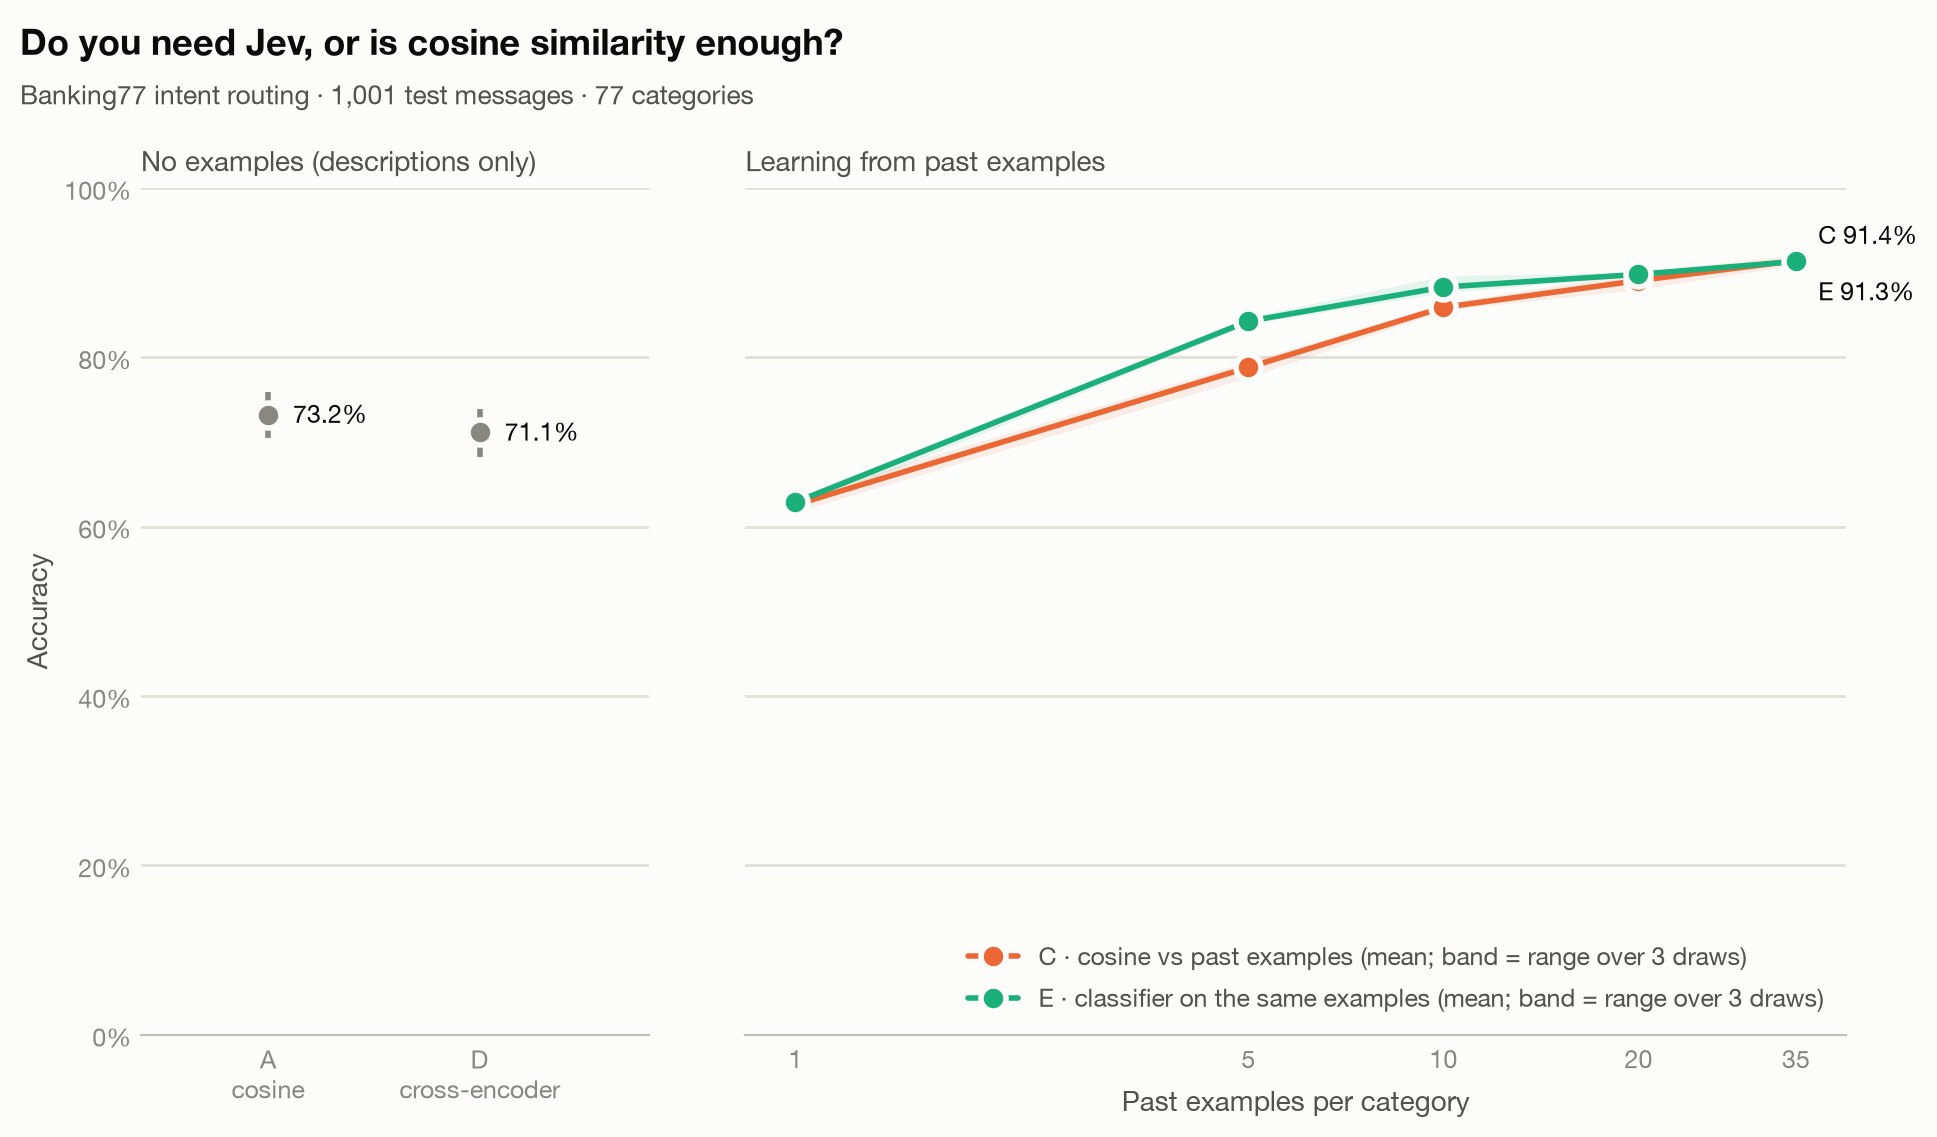
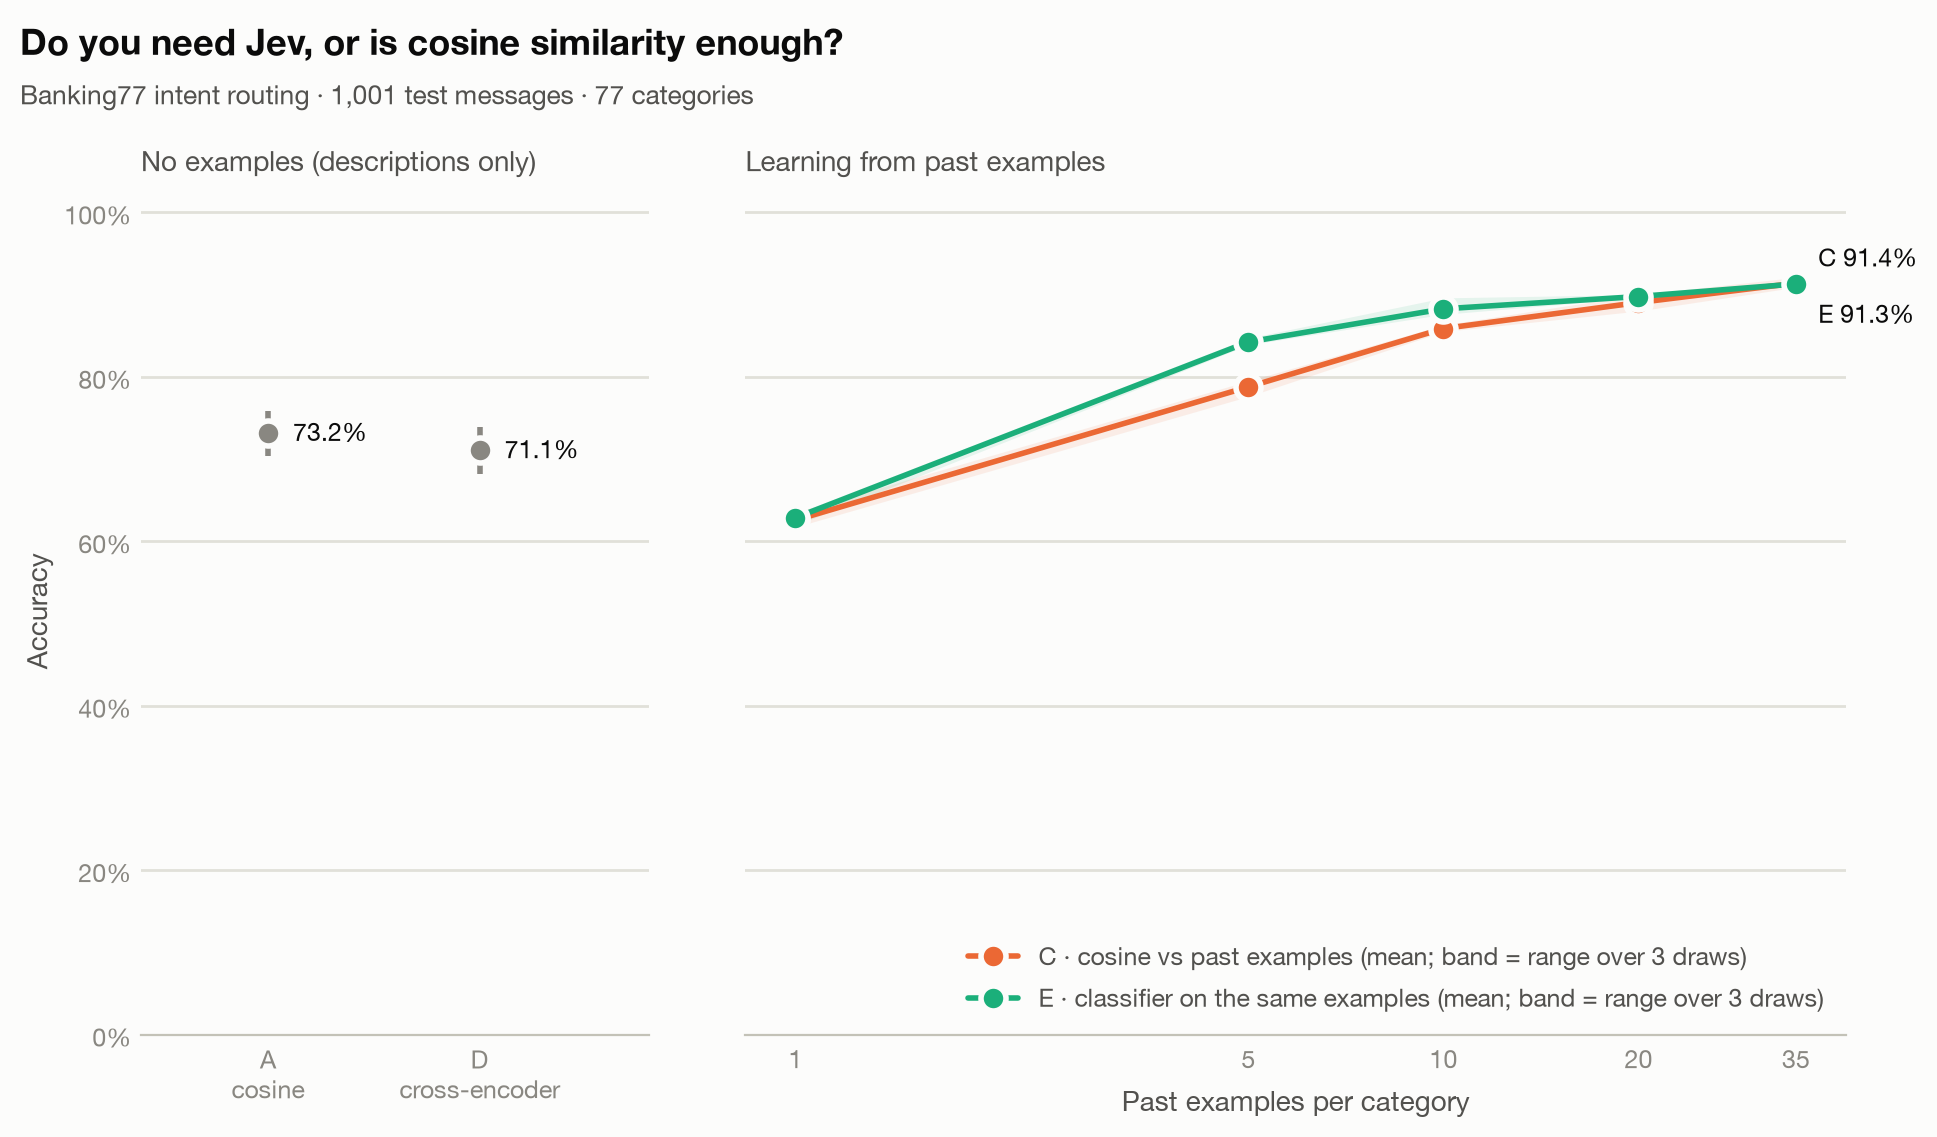
docs: add Jev results for the tricky probe
After the daily canary matched (422/422 tokens), Jev answered all 105
tricky messages from the free route: 100.0%, against 79.0% for the
cross-encoder, 64.8% for cosine vs descriptions, and 60.6% / 64.1% for
cosine voting / the trained classifier with 35 examples per category.
All reports are regenerated with the chart fix.

diff --git a/results/probe_tricky.v1/REPORT.md b/results/probe_tricky.v1/REPORT.md
@@ -1,16 +1,17 @@
 # Results: Jev vs cosine similarity on Banking77
 
-_Jev (method B) has not been run yet; only the cosine methods are shown._
+**With no examples, Jev leads cosine by 35.2 points; cosine vs past examples does not reach Jev within the tested range.**
 
-A classifier trained on the same past examples (method E) reaches **64.1%** with 35 per category.
+A classifier trained on the same past examples (method E) does not reach Jev within the tested range, and scores 64.1% with 35 per category.
 
-A local cross-encoder that reads each message together with each description (method D) scores **79.0%**, +14.3 points vs cosine vs descriptions, at 1115 ms per message on CPU.
+A local cross-encoder that reads each message together with each description (method D) scores **79.0%**, -21.0 points vs Jev, at 1115 ms per message on CPU.
 
 ![Accuracy vs past examples per category](accuracy_vs_examples.png)
 
 | Method | Past examples per category | Accuracy (95% CI) | Median latency | p95 latency | Input tokens | List-price cost |
 |---|---|---|---|---|---|---|
 | A · cosine vs descriptions | 0 | 64.8% (55.3%–73.2%) | 7 ms | 8 ms | 0 | $0.0000 |
+| B · Jev | 0 | 100.0% (96.5%–100.0%) | 591 ms | 696 ms | 251,051 | $0.0105 |
 | D · cross-encoder vs descriptions | 0 | 79.0% (70.3%–85.7%) | 1115 ms | 1213 ms | 0 | $0.0000 |
 | C · cosine vs past examples (top-5 vote) | 1 | 48.9% (range 46.7%–50.5% over 3 draws) | 7 ms | 8 ms | 0 | $0.0000 |
 | C · cosine vs past examples (top-5 vote) | 5 | 61.3% (range 57.1%–64.8% over 3 draws) | 7 ms | 8 ms | 0 | $0.0000 |
@@ -27,8 +28,9 @@ A local cross-encoder that reads each message together with each description (me
 
 - Every method answered the same 105 messages of probe `tricky.v1`; `probes/README.md` explains how they were built and checked.
 - A embeds each category's name plus its one-line description. B (Jev) gets the same names and descriptions as Choice options, plus a one-sentence instruction. C compares against past customer messages from the training split (1, 5, 10, 20, 35 per category), drawn with 3 random seeds; 7 training rows that duplicated a test message (ignoring case and whitespace) were removed first.
-- Prompt catalog: `banking77_intents.v1`. Embedding model: `BAAI/bge-small-en-v1.5@5c38ec7c405ec4b44b94cc5a9bb96e735b38267a`, run locally on CPU (free). Jev: not run.
+- Prompt catalog: `banking77_intents.v1`. Embedding model: `BAAI/bge-small-en-v1.5@5c38ec7c405ec4b44b94cc5a9bb96e735b38267a`, run locally on CPU (free). Jev: `opencode.ai/jev-1.13-free` (model reported: jev-1.13-free).
 - D scores (message, name + description) for every category with a cross-encoder reranker (`BAAI/bge-reranker-v2-m3@953dc6f6f85a1b2dbfca4c34a2796e7dde08d41e`), 77 pairs per message, locally on CPU, with no examples. Its latency is all 77 pairs for one message.
 - E trains a logistic-regression classifier on the embeddings of the same past examples C votes with (same seeds, same messages). Training is offline and untimed.
+- B+ appends the seed-1 past examples C and E use at that setting to each of Jev's category descriptions, so its catalog, token count and cache namespace differ from B.
 - Latency for A and C is local embedding plus scoring per message. For Jev it is the full network round trip, including retry waits on routes with retries enabled.
 - List-price cost is what the run would cost at $0.042 per million input tokens, even when the route used was free.

diff --git a/results/REPORT.md b/results/REPORT.md
@@ -30,5 +30,6 @@ A local cross-encoder that reads each message together with each description (me
 - Prompt catalog: `banking77_intents.v1`. Embedding model: `BAAI/bge-small-en-v1.5@5c38ec7c405ec4b44b94cc5a9bb96e735b38267a`, run locally on CPU (free). Jev: not run.
 - D scores (message, name + description) for every category with a cross-encoder reranker (`BAAI/bge-reranker-v2-m3@953dc6f6f85a1b2dbfca4c34a2796e7dde08d41e`), 77 pairs per message, locally on CPU, with no examples. Its latency is all 77 pairs for one message.
 - E trains a logistic-regression classifier on the embeddings of the same past examples C votes with (same seeds, same messages). Training is offline and untimed.
+- B+ appends the seed-1 past examples C and E use at that setting to each of Jev's category descriptions, so its catalog, token count and cache namespace differ from B.
 - Latency for A and C is local embedding plus scoring per message. For Jev it is the full network round trip, including retry waits on routes with retries enabled.
 - List-price cost is what the run would cost at $0.042 per million input tokens, even when the route used was free.
